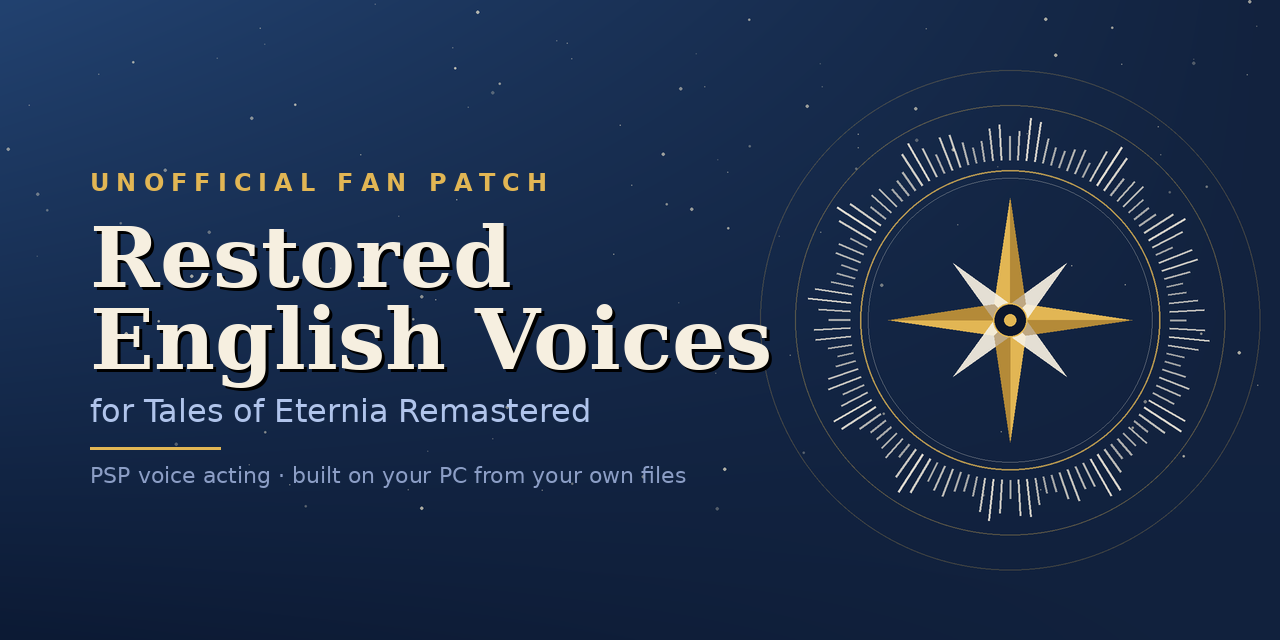
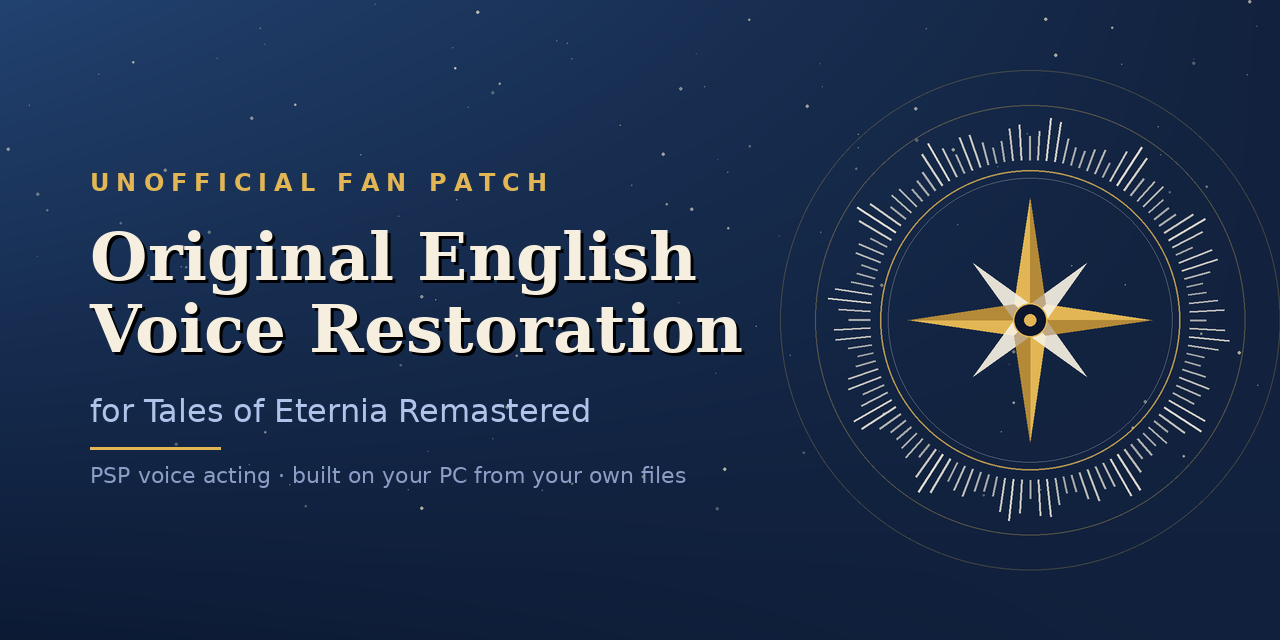
Add files via upload

diff --git a/README.md b/README.md
@@ -1,6 +1,6 @@
-<p align="center"><img src="banner.png" alt="Restored English Voices for Tales of Eternia Remastered" width="100%"></p>
+<p align="center"><img src="banner.png" alt="Tales of Eternia Remastered – Original English Voice Restoration" width="100%"></p>
 
-# Tales of Eternia Remastered – Restored English Voices
+# Tales of Eternia Remastered – Original English Voice Restoration
 
 Puts the original **PSP English voice acting** back into *Tales of Eternia Remastered* (Steam).
 The patcher builds everything on **your PC**, from **your own** Steam game and **your own** European PSP disc image –
